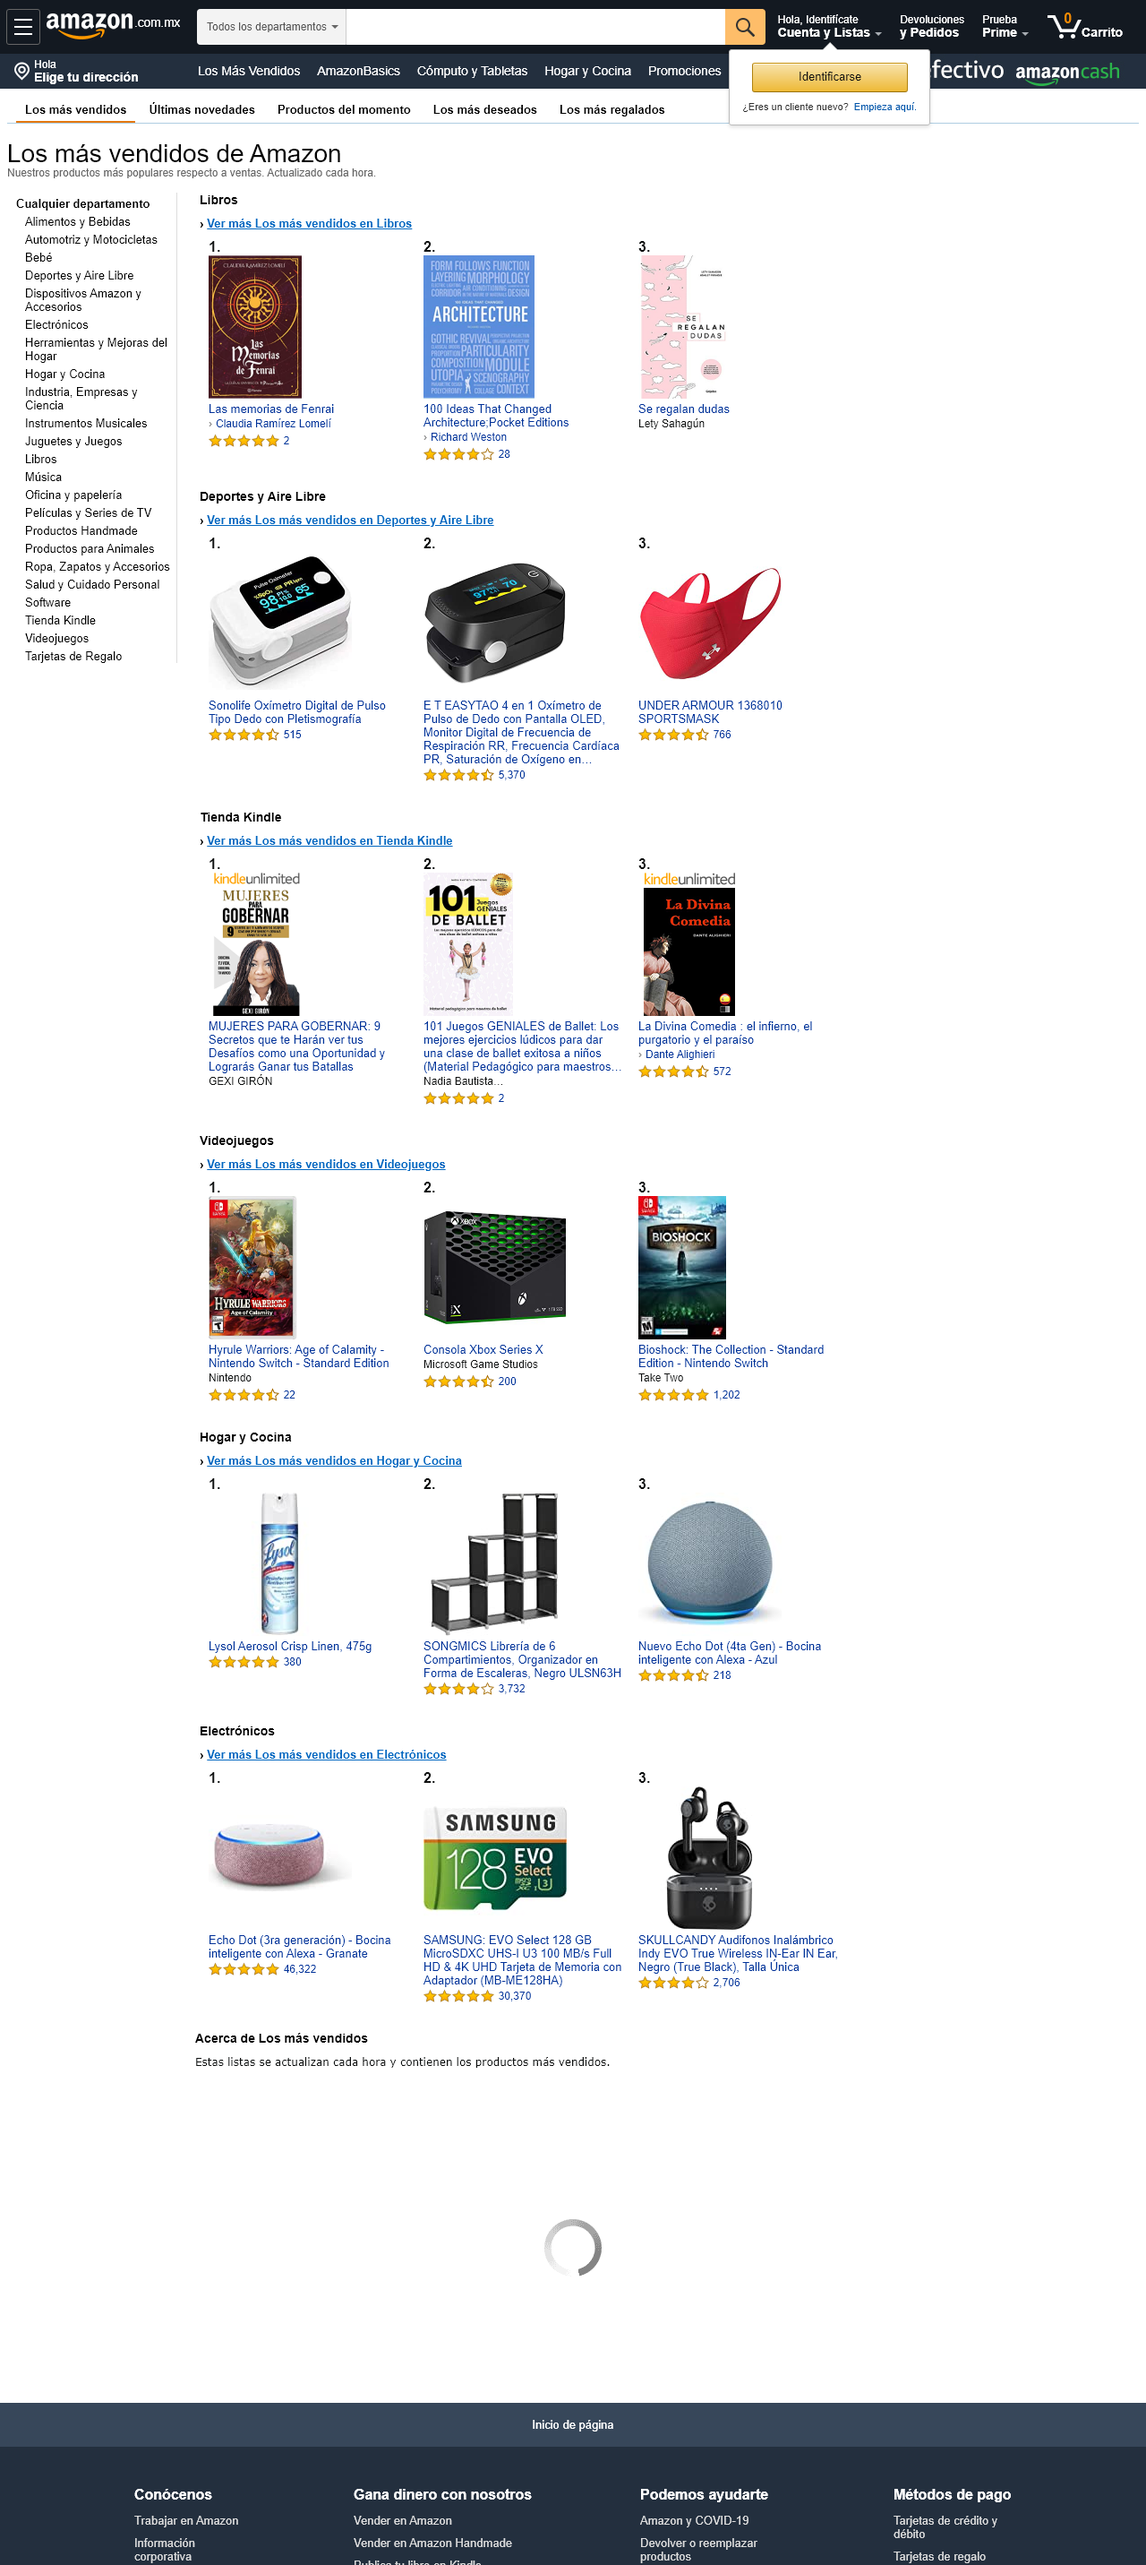
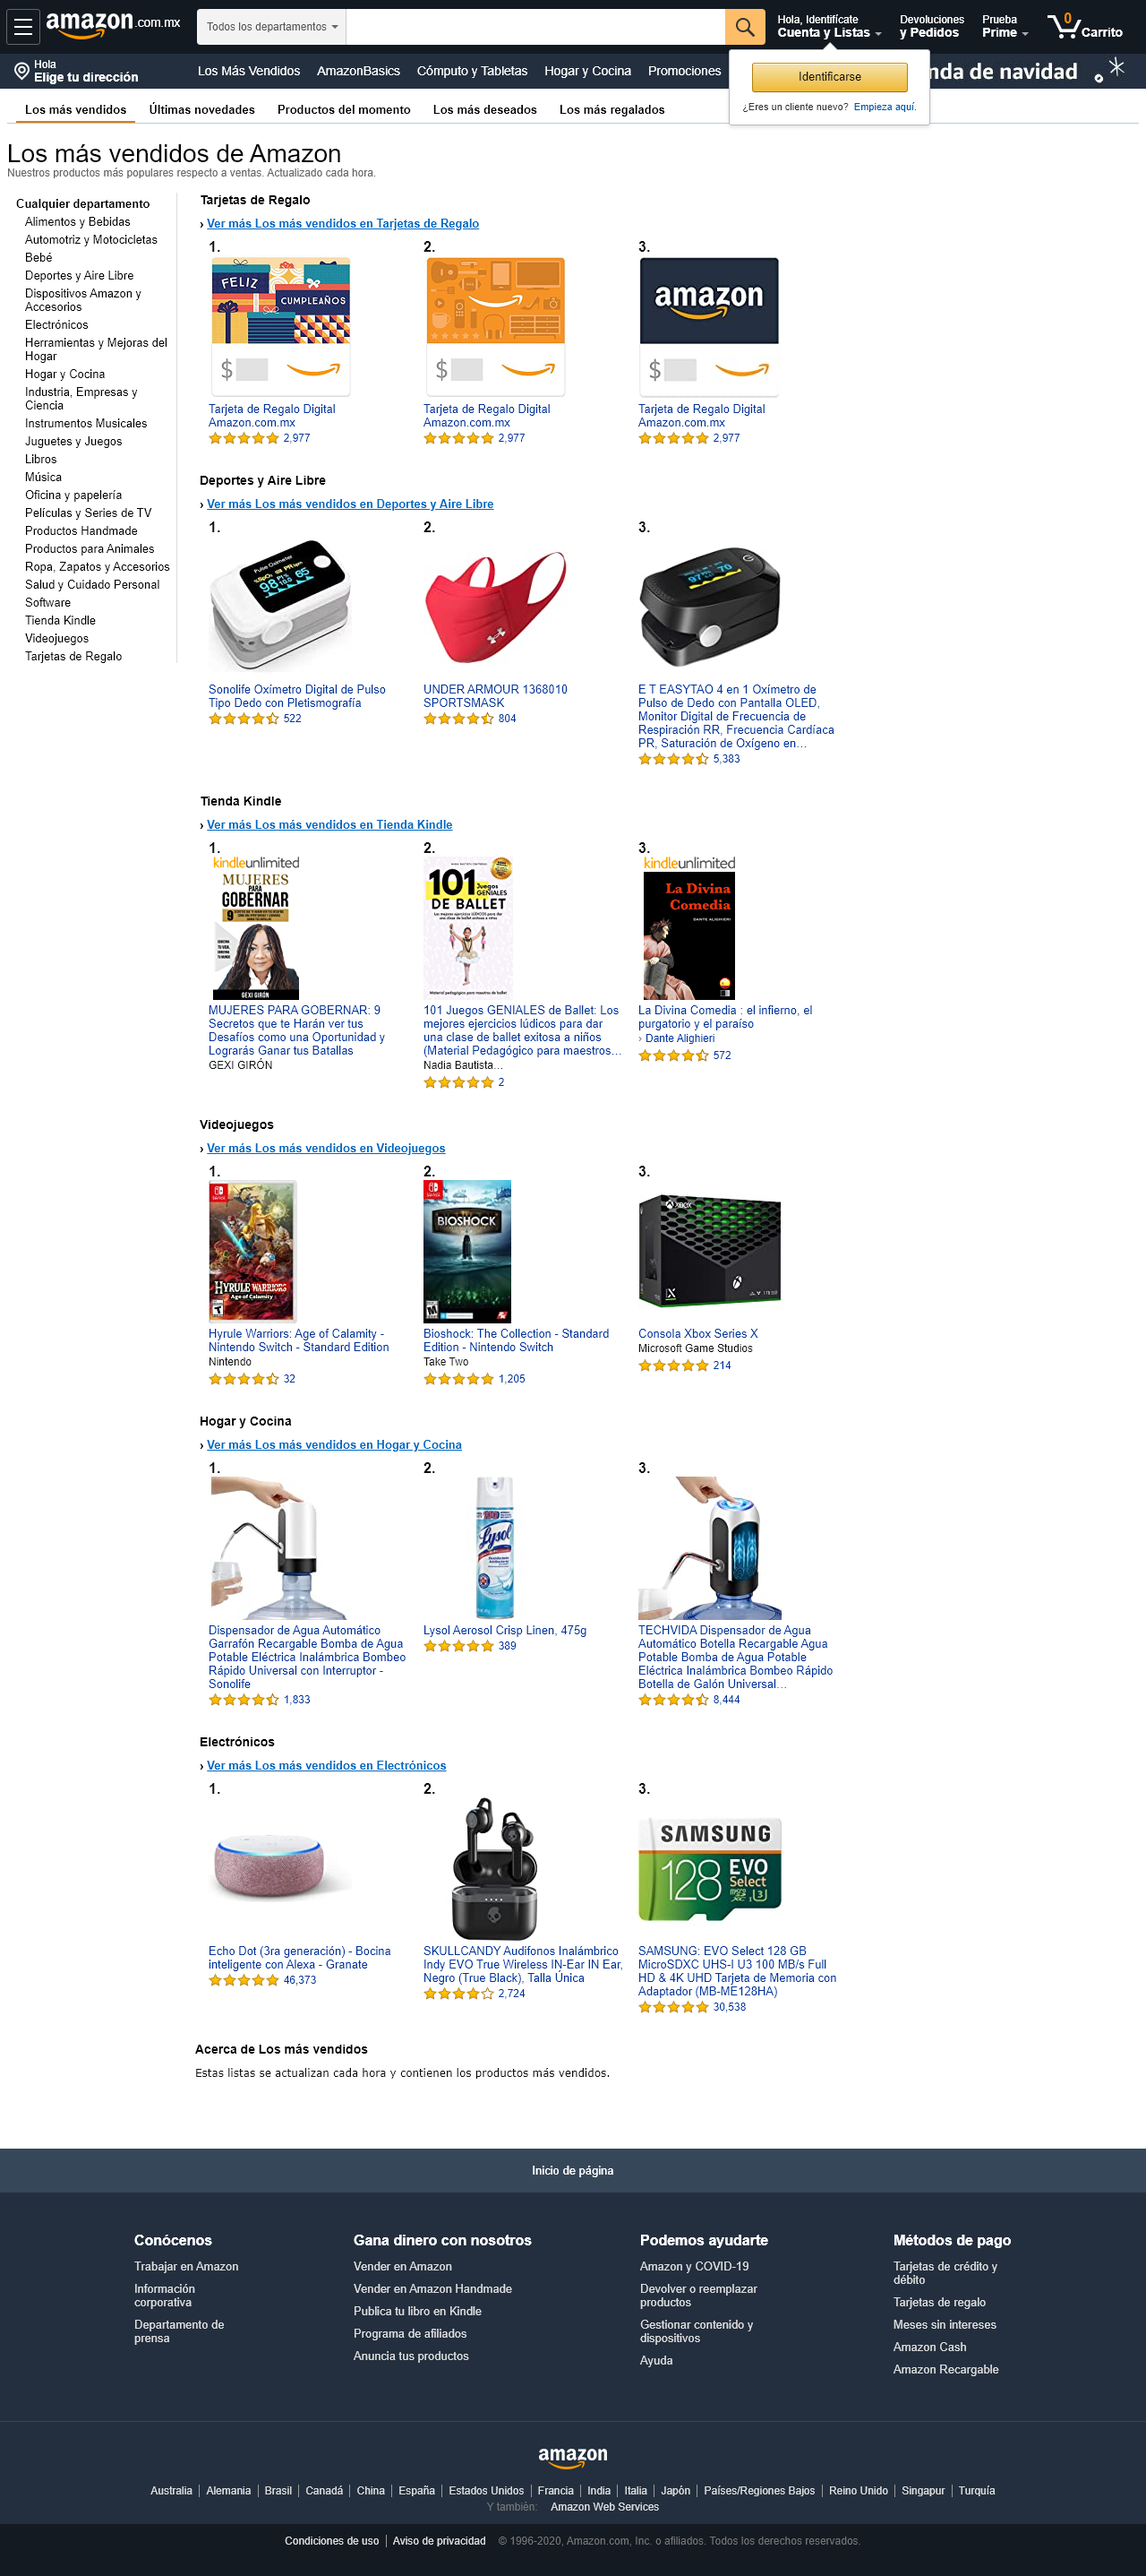
adding the services to save and get the products

diff --git a/utils/scraping/index.js b/utils/scraping/index.js
@@ -21,28 +21,29 @@ async function scraper(url) {
                         category: $review.querySelector("h3") ? $review.querySelector("h3").textContent : "",
                         position: $item.querySelector('.zg_rank') ? $item.querySelector('.zg_rank').textContent.trim() : "",
                         title: $item.querySelector('.p13n-sc-truncate-desktop-type2') ? $item.querySelector('.p13n-sc-truncate-desktop-type2').textContent.trim() : "",
-                        ranking: $item.querySelector('div.a-icon-row.a-spacing-none > .a-size-small') ? $item.querySelector('div.a-icon-row.a-spacing-none > .a-size-small').textContent.trim() : "",
+                        NumberOfReviews: $item.querySelector('div.a-icon-row.a-spacing-none > .a-size-small') ? $item.querySelector('div.a-icon-row.a-spacing-none > .a-size-small').textContent.trim() : "",
                         textRanking: $item.querySelector('div.a-icon-row.a-spacing-none > .a-link-normal') ? $item.querySelector('div.a-icon-row.a-spacing-none > .a-link-normal').getAttribute('title') : "",
                         img: $item.querySelector('img').getAttribute('src')?  decodeURIComponent($item.querySelector('img').getAttribute('src')) : "",
+                        id: $item.querySelector('.a-section.a-spacing-none.p13n-asin') ? $item.querySelector('.a-section.a-spacing-none.p13n-asin').getAttribute('data-p13n-asin-metadata') : null
                     })
                 })
 
             })
-            return {
-                data: data
-            }
+            return data;
         })
-
-        console.log("data -- ", JSON.stringify(data))
-        console.log("data -- ", data)
         await browser.close();
+         //console.log("data -- ", JSON.stringify(data))
+        //console.log("data -- ", data)
+        return data;
+
+        
     } catch (error) {
         console.error("[error] - ", error);
     }
 
 }
 
-//scraper("http://www.amazon.com.mx/gp/bestsellers/?ref_=nav_cs_bestsellers")
+// scraper("http://www.amazon.com.mx/gp/bestsellers/?ref_=nav_cs_bestsellers")
 
 module.exports = {
     scraper

diff --git a/lib/db.js b/lib/db.js
@@ -1,29 +1,61 @@
 'use strict'
 
+const { count } = require('console');
+const { resolve } = require('path');
 const path = require('path')
 const { Database } = require('sqlite3').verbose();
 
-const db = new Database(path.join(__dirname, '..', 'secrets.db'))
+const client = new Database(path.join(__dirname, '..', 'secrets.db'))
 const queries = {
-    tableProducts:`
+    tableProducts: `
       CREATE TABLE IF NOT EXISTS products (
-          product TEXT PRIMARY KEY,
-          name TEXT NOT NULL,
+          id TEXT,
+          category TEXT NULL,
+          title TEXT,                  
           rank TEXT,
-          NumberOfReviews TEXT
+          NumberOfReviews TEXT,
+          img TEXT     
       )
-    `    
+    `
 }
 
 async function createDb() {
     return new Promise((resolve, reject) => {
-        db.serialize(() => {
-            db.run(queries.tableProducts, err => {
-                if(err) return reject(err)
+        client.serialize(() => {
+            client.run(queries.tableProducts, err => {
+                if (err) return reject(err)
                 resolve({
-                    client: db
+                    client,
+                    setProducts,
+                    getProducts
                 })
             })
+        })
+
+    })
+}
+
+async function setProducts(id, category, title, rank, NumberOfReviews, img) {
+    return new Promise((resolve, reject) => {
+        const stmt = client.prepare('INSERT INTO products VALUES ( ?, ?, ?, ?, ?, ?);')
+        stmt.run(id, category, title, rank, NumberOfReviews, img)
+        stmt.finalize(err => {
+            if (err) return reject(err);
+
+            resolve()
+        })
+    })
+}
+
+async function getProducts() {
+    return new Promise((resolve, reject) => {
+        const products = [];
+        client.each('SELECT * FROM products;', (err, row) => {
+            if (err) return reject(err);
+            products.push(row);
+        }, (err, count) => {
+            if (err) return reject(err);
+            resolve({count, products})
         })
 
     })

diff --git a/services/products.js b/services/products.js
@@ -1,48 +1,31 @@
 const productsMocks = require("../utils/mocks/products");
-const MongoLib = require("../lib/mongo");
+const { createDb } = require("../lib/db");
 
-class ProductsService {
-  constructor() {
-    this.collection = "products";
-    this.mongoDB = new MongoLib();
-  }
-
-  async getProducts({ tags }) {
-    const query = tags && { tags: { $in: tags } };
-    const products = await this.mongoDB.getAll(this.collection, query);
-
-    return products || [];
-  }
-
-  async getProduct({ productId }) {
-    const product = await this.mongoDB.get(this.collection, productId);
-    return product || {};
-  }
-
-  async createProduct({ product }) {
-    const createProductId = await this.mongoDB.create(this.collection, product);
-
-    return createProductId;
-  }
-
-  async updateProduct({ productId, product }) {
-    const updateProductId = await this.mongoDB.update(
-      this.collection,
-      productId,
-      product
-    );
-
-    return updateProductId;
-  }
-
-  async deleteProduct({ productId }) {
-    const deletedProductId = await this.mongoDB.delete(
-      this.collection,
-      productId
-    );
-
-    return deletedProductId;
+async function createProduct(product) {
+  try {
+    const services = await createDb();    
+    product.map( async item => {
+      const id = JSON.parse(item.id) ? JSON.parse(item.id).asin : Math.random();
+      await services.setProducts(id, item.category, item.title, item.textRanking, item.NumberOfReviews, item.img);
+    })
+  } catch (error) {
+    console.error("error createProduct ", error);
+    return error
   }
 }
 
-module.exports = ProductsService;
+async function getProducts() {
+  try {
+    const services = await createDb();
+    const products = await services.getProducts();
+    return products;
+  } catch (error) {
+    console.error("error getProducts ", error);
+    return error
+  }
+}
+
+module.exports = {
+  createProduct,
+  getProducts
+};

diff --git a/routes/api.js b/routes/api.js
@@ -1,19 +1,41 @@
 'use strict'
 const express = require('express');
 const { scraper} = require('../utils/scraping/index')
+const {
+    createProduct,
+    getProducts
+} = require("../services/products");
 function Api(app) {
     const router = express.Router();
     app.use('/api', router);
-    router.post('/', async (req, res) => {
+    
+
+    router.post('/init', async (req, res, next) => {
         //throw new Error("ERROR GET DATABASE--")
         try {
-            await scraper("http://www.amazon.com.mx/gp/bestsellers/?ref_=nav_cs_bestsellers")    
-            res.send(`API v2`);
-        } catch (error) {
-            res.send(error)
+           const data = await scraper("http://www.amazon.com.mx/gp/bestsellers/?ref_=nav_cs_bestsellers")           
+           await createProduct(data)    
+            res.status(200).json({                
+                message: "Se guardo correctamente"
+            });
+        } catch (err) {
+            next(err);
         }
         
         
+    });
+
+    router.post("/products", async function (req, res, next) {
+        try {
+            const product = await getProducts();
+
+            res.status(200).json({
+                data: product,
+                message: "products"
+            });
+        } catch (err) {
+            next(err);
+        }
     });
 }
 

diff --git a/index.js b/index.js
@@ -18,7 +18,7 @@ const {
 const isRequestAjaxOrApi = require("./utils/isRequestAjaxOrApi");
 // app
 const app = express();
-
+//app.use('*', DataBaseConnect);
 app.use(logger('dev'));
 app.use(express.json());
 app.use(express.urlencoded({ extended: false }));
@@ -27,7 +27,7 @@ app.use(cookieParser());
 // middlewares
 app.use(bodyParser.json());
 // routes
-app.use('*', DataBaseConnect);
+
 Api(app);
 
 app.use(function(req, res, next) {

diff --git a/routes/dataBaseConnect.js b/routes/dataBaseConnect.js
@@ -4,7 +4,7 @@ let services;
 module.exports = async function DataBaseConnect(req, res, next) {
     if (!services) {        
         try {
-            services = await createDb();
+            services = await new createDb();
         } catch (e) {
             return next(e);
         }
